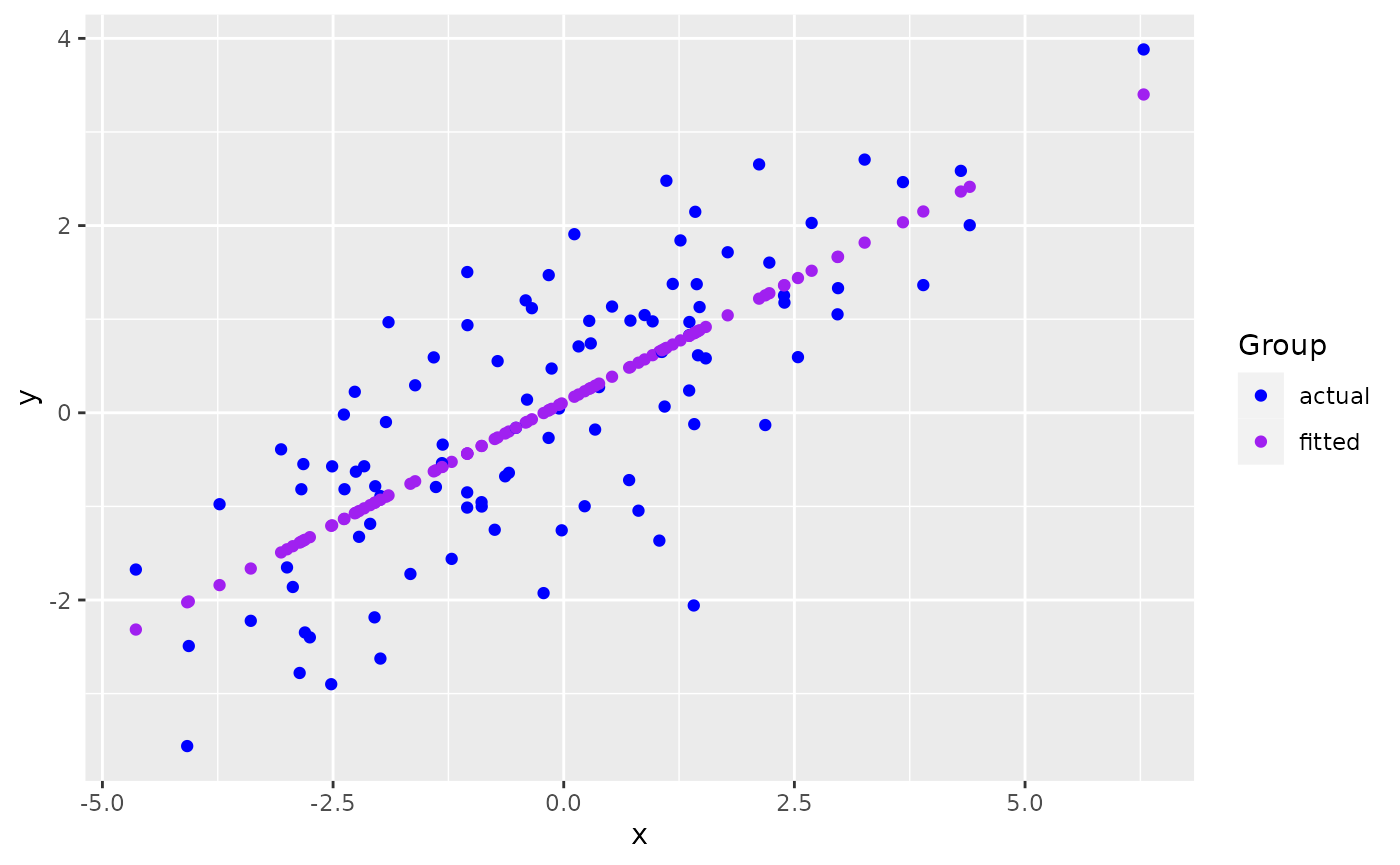
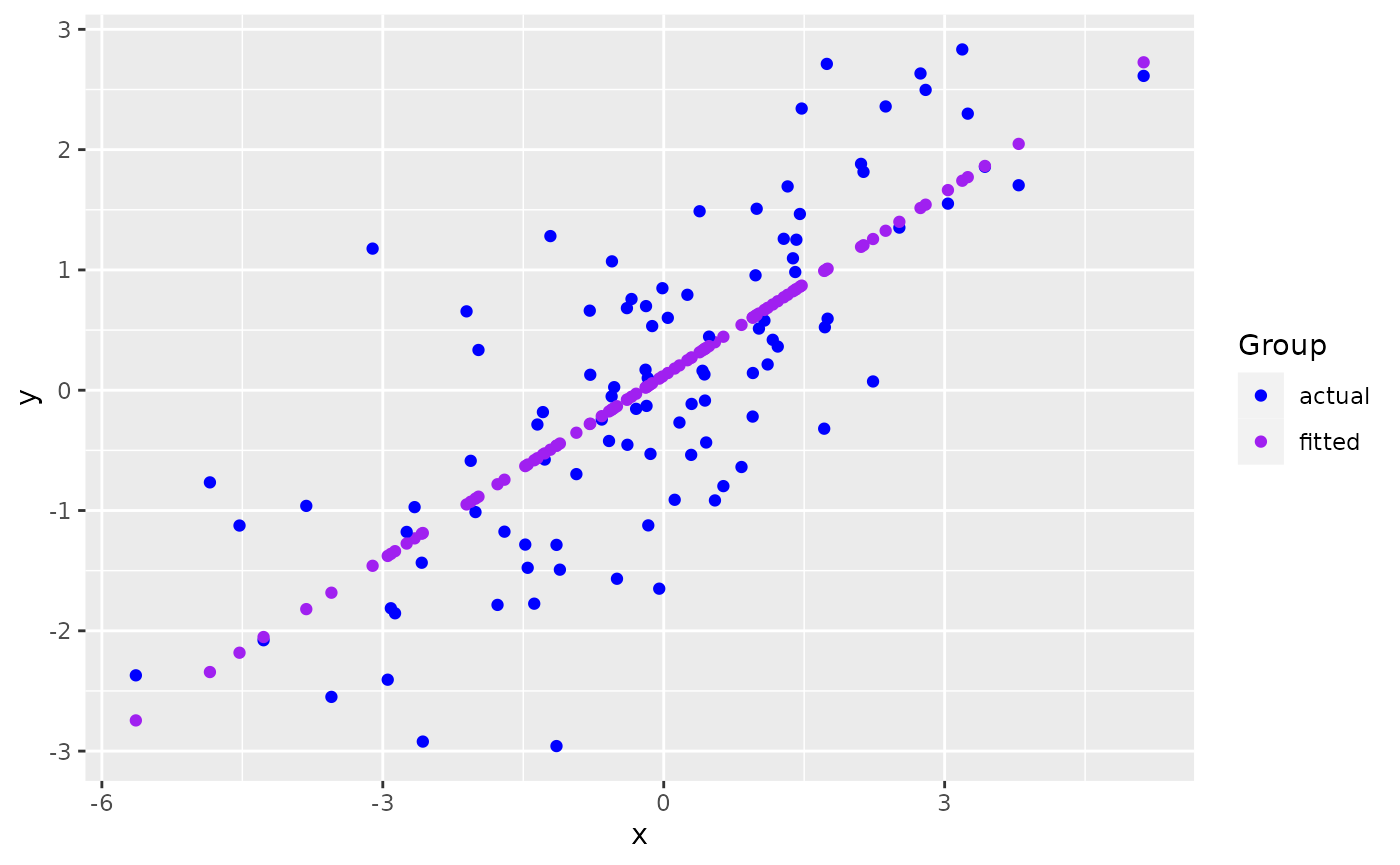
Built site for ggmatplot: 0.1.2@de2f3b5

diff --git a/articles/ggmatplot.html b/articles/ggmatplot.html
@@ -103,7 +103,7 @@
 <span class="va">x</span> <span class="op">&lt;-</span> <span class="fu"><a href="https://rdrr.io/r/base/c.html" class="external-link">c</a></span><span class="op">(</span><span class="fu"><a href="https://rdrr.io/r/stats/Normal.html" class="external-link">rnorm</a></span><span class="op">(</span><span class="fl">100</span>, sd <span class="op">=</span> <span class="fl">2</span><span class="op">)</span><span class="op">)</span>
 
 <span class="fu"><a href="https://rdrr.io/r/utils/head.html" class="external-link">head</a></span><span class="op">(</span><span class="va">x</span><span class="op">)</span>
-<span class="co">#&gt; [1]  1.414554 -3.392090  6.285373  1.361983  1.455294  1.539377</span>
+<span class="co">#&gt; [1] -0.9326507  0.2976451  2.3701195  0.4143191  3.2469098 -0.3440615</span>
 
 <span class="co"># matrix z</span>
 <span class="va">y</span> <span class="op">&lt;-</span> <span class="va">x</span> <span class="op">*</span> <span class="fl">0.5</span> <span class="op">+</span> <span class="fu"><a href="https://rdrr.io/r/stats/Normal.html" class="external-link">rnorm</a></span><span class="op">(</span><span class="fl">100</span>, sd <span class="op">=</span> <span class="fl">1</span><span class="op">)</span>
@@ -113,12 +113,12 @@
 
 <span class="fu"><a href="https://rdrr.io/r/utils/head.html" class="external-link">head</a></span><span class="op">(</span><span class="va">z</span><span class="op">)</span>
 <span class="co">#&gt;       actual     fitted</span>
-<span class="co">#&gt; 1 -0.1212349  0.8515835</span>
-<span class="co">#&gt; 2 -2.2224732 -1.6638189</span>
-<span class="co">#&gt; 3  3.8818217  3.4005694</span>
-<span class="co">#&gt; 4  0.9699635  0.8240721</span>
-<span class="co">#&gt; 5  0.6144686  0.8729032</span>
-<span class="co">#&gt; 6  0.5813132  0.9169053</span></code></pre></div>
+<span class="co">#&gt; 1 -0.6974610 -0.3533872</span>
+<span class="co">#&gt; 2 -0.1139663  0.2720382</span>
+<span class="co">#&gt; 3  2.3588900  1.3255883</span>
+<span class="co">#&gt; 4  0.1616609  0.3313499</span>
+<span class="co">#&gt; 5  2.2990850  1.7713079</span>
+<span class="co">#&gt; 6  0.7582615 -0.0541757</span></code></pre></div>
 <p><code>ggmatplot</code> plots vector <code>x</code> against each column of matrix <code>z</code> using the default <code>plot_type = "point"</code>. This will be represented on the resulting plot as two groups, identified using different shapes and colors.</p>
 <div class="sourceCode" id="cb2"><pre class="downlit sourceCode r">
 <code class="sourceCode R"><span class="kw"><a href="https://rdrr.io/r/base/library.html" class="external-link">library</a></span><span class="op">(</span><span class="va"><a href="https://github.com/xuan-liang/ggmatplot" class="external-link">ggmatplot</a></span><span class="op">)</span>
